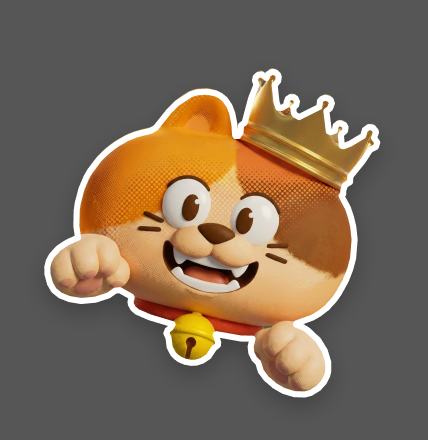
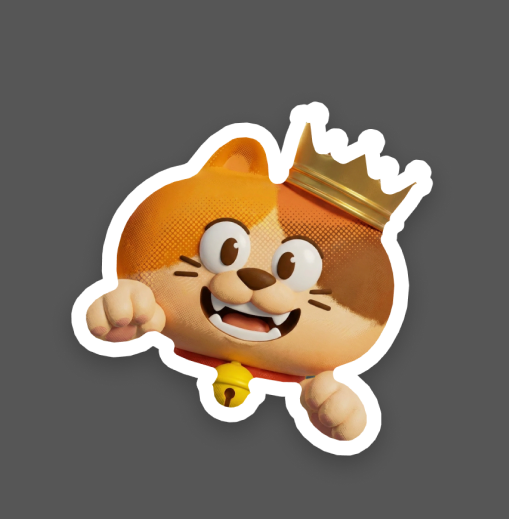
fix(portfolio): increase glass opacity, nest text in 3D panel, re-export updated assets

Changed region(s): [[0.0911, 0.1477, 0.9112, 0.9159]]

diff --git a/components/PortfolioFolders.css b/components/PortfolioFolders.css
@@ -195,7 +195,7 @@
   top: 32.33%; 
   width: 100%; 
   height: 79.35%;
-  background: rgba(42, 94, 238, 0.25);
+  background: rgba(42, 94, 238, 0.85);
   backdrop-filter: blur(24px) saturate(140%);
   -webkit-backdrop-filter: blur(24px) saturate(140%);
   border: 1px solid rgba(255, 255, 255, 0.2);
@@ -223,10 +223,6 @@
   height: 100%;
   z-index: 11;
   pointer-events: none;
-  transition: transform 0.6s cubic-bezier(0.68, -0.6, 0.32, 1.6);
-}
-.portfolio-folder-wrapper:hover .portfolio-folder-titles {
-  transform: translate(-0.98%, 17.28%);
 }
 
 /* Text Elements */
@@ -242,18 +238,20 @@
   letter-spacing: 0.07em;
   text-transform: uppercase;
 }
-.folder-text-title1 { top: 46.45%; }
-.folder-text-title2 { top: 63.20%; }
+/* Recalculate top relative to front glass (which is 79.35% height and starts at 32.33%) */
+/* Title1: (46.45 - 32.33) / 79.35 = 17.79% */
+/* Title2: (63.20 - 32.33) / 79.35 = 38.90% */
+.folder-text-title1 { top: 17.79%; }
+.folder-text-title2 { top: 38.90%; }
 
 .portfolio-folder-logo {
+  position: absolute;
   left: 5.17%; 
-  top: 95.43%;
+  /* Logo: (95.43 - 32.33) / 79.35 = 79.52% */
+  top: 79.52%;
   width: 30.69%;
   z-index: 11;
-  transition: transform 0.6s cubic-bezier(0.68, -0.6, 0.32, 1.6);
-}
-.portfolio-folder-wrapper:hover .portfolio-folder-logo {
-  transform: translate(-0.98%, 17.28%);
+  pointer-events: none;
 }
 
 /* Paperclip */

diff --git a/components/PortfolioFolders.tsx b/components/PortfolioFolders.tsx
@@ -63,16 +63,16 @@ function FolderCard({ data }: { data: typeof foldersData[0] }) {
         </div>
 
         {/* Front Cover (Glassmorphism) */}
-        <div className="folder-layer portfolio-folder-front-glass" />
-
-        {/* Text Layer */}
-        <div className="portfolio-folder-titles">
-          <p className="folder-text-title1">{data.title1}</p>
-          <p className="folder-text-title2">{data.title2}</p>
-        </div>
-        
-        <div className="folder-layer portfolio-folder-logo">
-          <img src="/folders/logo.svg" alt="Portfolio" />
+        <div className="folder-layer portfolio-folder-front-glass">
+          {/* Text Layer (Now inside front glass to animate together) */}
+          <div className="portfolio-folder-titles">
+            <p className="folder-text-title1">{data.title1}</p>
+            <p className="folder-text-title2">{data.title2}</p>
+          </div>
+          
+          <div className="portfolio-folder-logo">
+            <img src="/folders/logo.svg" alt="Portfolio" />
+          </div>
         </div>
 
         {/* Topmost Assets */}